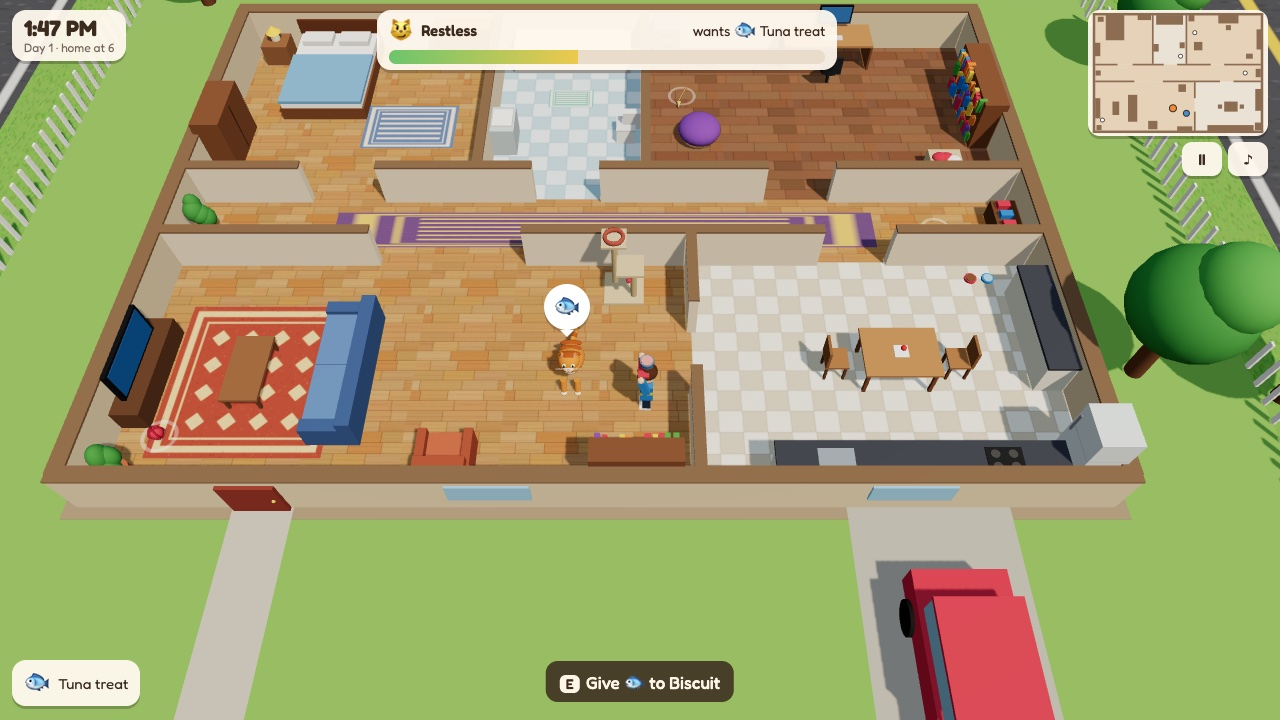
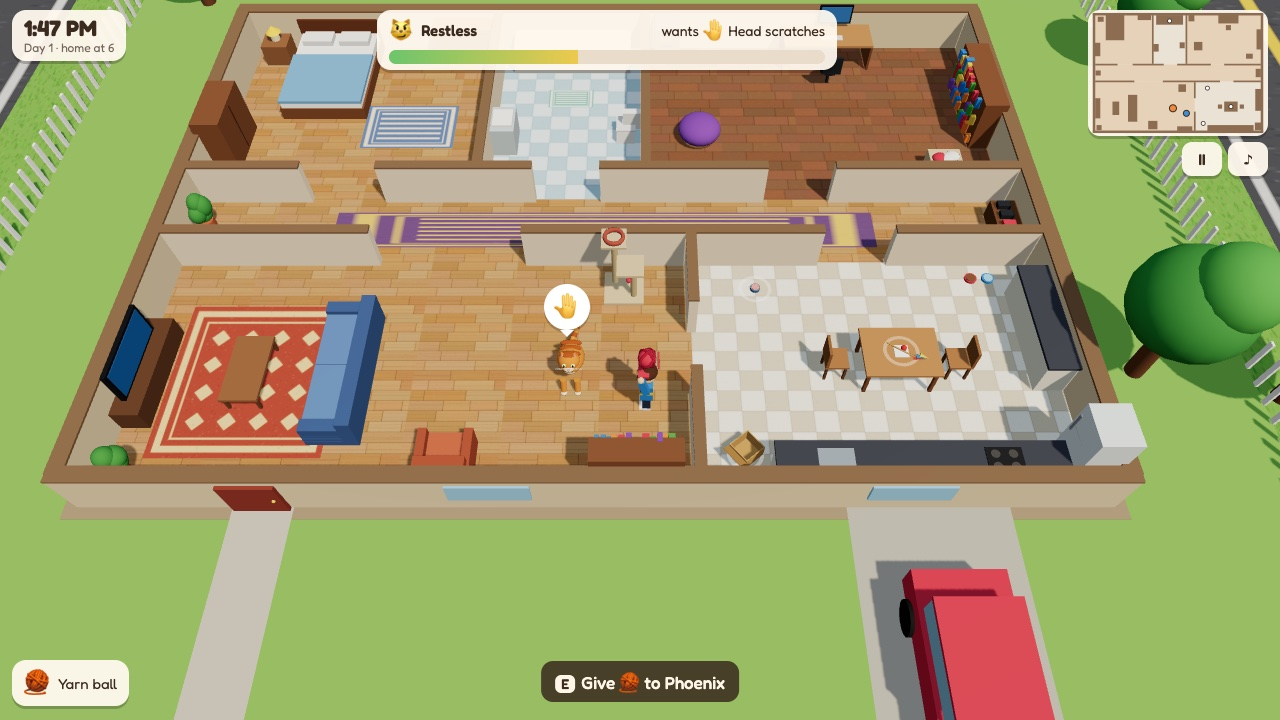
Rename Purr Patrol's cat from Biscuit to Phoenix
Updates every in-game mention (HUD, toasts, prompts, title and the
"PHOENIX GOT BORED" banner), the README description, and the screenshots,
which showed the old name in on-screen text.

diff --git a/purr-patrol/index.html b/purr-patrol/index.html
@@ -111,18 +111,18 @@ body.touch #prompt kbd{display:none}
   <div class="chip" id="carry"><span id="carryE">✋</span><span id="carryN">Empty hands</span></div>
   <div id="prompt" hidden></div>
 </div>
-<div id="kbanner" hidden><b>BISCUIT GOT BORED</b><span id="kdmg">$0 in damages</span></div>
+<div id="kbanner" hidden><b>PHOENIX GOT BORED</b><span id="kdmg">$0 in damages</span></div>
 <div id="touch" hidden><div id="stick"><i></i></div><button id="bRun" type="button">RUN</button><button id="bAct" type="button">GRAB</button></div>
 
 <div class="screen" id="title">
   <div class="card">
     <div class="eyebrow">AN AFTERNOON IN WHISKERTON</div>
     <h1>Purr<br>Patrol</h1>
-    <p>You're cat-sitting <b>Biscuit</b> until the owners get home at 6. Run around the house, find what Biscuit wants and bring it over. Whatever you do, <b>don't let Biscuit get bored.</b></p>
+    <p>You're cat-sitting <b>Phoenix</b> until the owners get home at 6. Run around the house, find what Phoenix wants and bring it over. Whatever you do, <b>don't let Phoenix get bored.</b></p>
     <div class="keys" id="keysDesk">
       <kbd>WASD / Arrows</kbd><span>Run around the house</span>
       <kbd>Shift</kbd><span>Sprint</span>
-      <kbd>E / Space</kbd><span>Grab a toy, give it, or pet Biscuit</span>
+      <kbd>E / Space</kbd><span>Grab a toy, give it, or pet Phoenix</span>
       <kbd>P · M</kbd><span>Pause · Mute</span>
     </div>
     <p class="small" id="keysTouch" hidden>Stick to run, the orange button to grab, give and pet.</p>
@@ -134,16 +134,16 @@ body.touch #prompt kbd{display:none}
   <div class="card">
     <div class="eyebrow" id="deEye">6:00 PM · DAY 1</div>
     <h2>The owners are home!</h2>
-    <p>Biscuit is purring on the windowsill and Whiskerton is still standing.</p>
+    <p>Phoenix is purring on the windowsill and Whiskerton is still standing.</p>
     <div class="stats"><span>Toys delivered</span><b id="deToys">0</b><span>Exact wishes granted</span><b id="deWish">0</b><span>Closest call</span><b id="deClose">0%</b></div>
-    <p class="small">Tomorrow Biscuit gets bored faster.</p>
+    <p class="small">Tomorrow Phoenix gets bored faster.</p>
     <button class="btn" id="nextBtn" type="button">Next day</button>
   </div>
 </div>
 <div class="screen" id="over" hidden>
   <div class="card">
     <div class="eyebrow" id="ovEye">3:12 PM · DAY 1</div>
-    <h2>Biscuit got bored.</h2>
+    <h2>Phoenix got bored.</h2>
     <p id="ovText">Whiskerton is in ruins.</p>
     <div class="stats"><span>Damage to Whiskerton</span><b id="ovDmg">$0</b><span>Buildings flattened</span><b id="ovBld">0</b><span>Toys delivered</span><b id="ovToys">0</b></div>
     <button class="btn" id="retryBtn" type="button">Try the day again</button>
@@ -151,7 +151,7 @@ body.touch #prompt kbd{display:none}
   </div>
 </div>
 <div class="screen" id="pause" hidden>
-  <div class="card"><h2>Paused</h2><p>Biscuit is watching you. Waiting.</p><button class="btn" id="resumeBtn" type="button">Resume</button></div>
+  <div class="card"><h2>Paused</h2><p>Phoenix is watching you. Waiting.</p><button class="btn" id="resumeBtn" type="button">Resume</button></div>
 </div>
 
 <script type="importmap">{"imports":{"three":"https://cdn.jsdelivr.net/npm/three@0.170.0/build/three.module.js"}}</script>
@@ -402,7 +402,7 @@ function sfx(name, v = 1) {
     case 'step': noise(t, .05, filt('bandpass', 900, 2, envG(M, t, .002, .04 * v, .05))); break;
   }
 }
-// little looping tune; goes minor and quicker as Biscuit gets bored
+// little looping tune; goes minor and quicker as Phoenix gets bored
 const MUS = { on: false, next: 0, step: 0, tense: 0 };
 function startMusic() {
   if (MUS.timer) return;
@@ -565,7 +565,7 @@ function buildHouse() {
   rug(0, 0, 13, 1.1, 'runner');
   boxB(H, .6, .5, 1.0, 0x7a5235, 9.55, 0, 0); for (let i = 0; i < 3; i++) boxB(H, .3, .12, .18, pick([0x30343c, 0xd9485a, 0x3d8fe0]), 9.5, .5, -.3 + i * .3); solid(9.55, 0, .6, 1.0);
   plant(-9.5, 0); solid(-9.5, 0, .6, .6);
-  // floors count as house too but stay put when Biscuit pops
+  // floors count as house too but stay put when Phoenix pops
 }
 
 /* ================= TOWN ================= */
@@ -785,10 +785,10 @@ function moveInput() {
 const nearCat = () => Math.hypot(cat.x - player.x, cat.z - player.z) < 1.8 && cat.state !== 'zoom';
 function nearestItem() { let best = null, bd = 1.35; for (const it of items) { const d = Math.hypot(it.x - player.x, it.z - player.z); if (d < bd) { bd = d; best = it; } } return best; }
 function context() {
-  if (nearCat() && player.carry) return { act: 'give', label: `Give ${TOYS[player.carry].e} to Biscuit`, btn: 'GIVE' };
+  if (nearCat() && player.carry) return { act: 'give', label: `Give ${TOYS[player.carry].e} to Phoenix`, btn: 'GIVE' };
   const it = nearestItem();
   if (it) return { act: 'grab', it, label: player.carry ? `Swap for ${TOYS[it.type].e} ${TOYS[it.type].name}` : `Grab ${TOYS[it.type].e} ${TOYS[it.type].name}`, btn: player.carry ? 'SWAP' : 'GRAB' };
-  if (nearCat() && (cat.state !== 'play' || cat.want === 'pet')) return { act: 'pet', label: cat.want === 'pet' ? 'Give Biscuit head scratches' : 'Pet Biscuit', btn: 'PET' };
+  if (nearCat() && (cat.state !== 'play' || cat.want === 'pet')) return { act: 'pet', label: cat.want === 'pet' ? 'Give Phoenix head scratches' : 'Pet Phoenix', btn: 'PET' };
   return null;
 }
 function interact() {
@@ -803,16 +803,16 @@ function interact() {
 function give() {
   const t = player.carry; setCarry(null); run.toys++;
   let amt;
-  if (t === cat.want) { amt = Math.max(24, 36 - 3 * (run.day - 1)); run.wishes++; toast('Purrfect! Exactly what Biscuit wanted.', 'good'); floatAt(cat.x, .9, cat.z, '😻'); sfx('give'); setTimeout(() => sfx('purr'), 250); }
-  else if (t === cat.lastToy) { amt = 5; toast('Biscuit already played with that.', 'bad'); floatAt(cat.x, .9, cat.z, '😒'); sfx('meh'); }
-  else { amt = 15; toast(`Not ${TOYS[cat.want].e}, but Biscuit will take it.`); floatAt(cat.x, .9, cat.z, '😼'); sfx('grab'); }
+  if (t === cat.want) { amt = Math.max(24, 36 - 3 * (run.day - 1)); run.wishes++; toast('Purrfect! Exactly what Phoenix wanted.', 'good'); floatAt(cat.x, .9, cat.z, '😻'); sfx('give'); setTimeout(() => sfx('purr'), 250); }
+  else if (t === cat.lastToy) { amt = 5; toast('Phoenix already played with that.', 'bad'); floatAt(cat.x, .9, cat.z, '😒'); sfx('meh'); }
+  else { amt = 15; toast(`Not ${TOYS[cat.want].e}, but Phoenix will take it.`); floatAt(cat.x, .9, cat.z, '😼'); sfx('grab'); }
   cat.boredom = Math.max(0, cat.boredom - amt); cat.lastToy = t;
   startPlay(t);
   if (t === cat.want) cat.wantAfterPlay = true; else if (cat.wantT > 14) cat.wantAfterPlay = true;
 }
 function pet() {
-  if (cat.want === 'pet') { cat.boredom = Math.max(0, cat.boredom - 32); run.wishes++; run.toys++; toast('Head scratches! Biscuit melts.', 'good'); for (let i = 0; i < 3; i++) setTimeout(() => floatAt(cat.x + rand(-.3, .3), .9, cat.z, '💕'), i * 180); sfx('purr'); startPlay('pet'); cat.wantAfterPlay = true; cat.petCD = 6; return; }
-  if (cat.petCD > 0) { cat.boredom = Math.min(100, cat.boredom + 5); toast('Biscuit swats your hand away!', 'bad'); floatAt(cat.x, .9, cat.z, '💢'); sfx('hiss'); cat.petCD = 4; cat.swat = .4; return; }
+  if (cat.want === 'pet') { cat.boredom = Math.max(0, cat.boredom - 32); run.wishes++; run.toys++; toast('Head scratches! Phoenix melts.', 'good'); for (let i = 0; i < 3; i++) setTimeout(() => floatAt(cat.x + rand(-.3, .3), .9, cat.z, '💕'), i * 180); sfx('purr'); startPlay('pet'); cat.wantAfterPlay = true; cat.petCD = 6; return; }
+  if (cat.petCD > 0) { cat.boredom = Math.min(100, cat.boredom + 5); toast('Phoenix swats your hand away!', 'bad'); floatAt(cat.x, .9, cat.z, '💢'); sfx('hiss'); cat.petCD = 4; cat.swat = .4; return; }
   cat.boredom = Math.max(0, cat.boredom - 6); floatAt(cat.x, .9, cat.z, '💕'); sfx('purr', .7); cat.petCD = 6;
 }
 
@@ -844,13 +844,13 @@ function updateCat(dt, live) {
       const rate = (1.2 + 1.0 * frac) * dayMul * (cat.state === 'zoom' ? .5 : 1);
       cat.boredom = Math.min(100, cat.boredom + rate * dt);
       cat.wantT += dt;
-      if (cat.wantT > 32) { newWant(); toast('Biscuit changed its mind.'); sfx('meowSad'); }
+      if (cat.wantT > 32) { newWant(); toast('Phoenix changed its mind.'); sfx('meowSad'); }
     }
     run.peak = Math.max(run.peak, cat.boredom);
     cat.meowT -= dt;
     if (cat.meowT <= 0) { cat.meowT = cat.boredom > 75 ? rand(3, 5) : rand(9, 16); sfx(cat.boredom > 75 ? 'meowMad' : cat.boredom > 45 ? 'meowSad' : 'meow', .8); }
-    if (cat.boredom >= 75 && run.warned < 1) { run.warned = 1; toast('Biscuit is getting dangerously bored!', 'bad'); sfx('warn'); }
-    if (cat.boredom >= 90 && run.warned < 2) { run.warned = 2; toast('Something is happening to Biscuit…', 'bad'); sfx('growl'); }
+    if (cat.boredom >= 75 && run.warned < 1) { run.warned = 1; toast('Phoenix is getting dangerously bored!', 'bad'); sfx('warn'); }
+    if (cat.boredom >= 90 && run.warned < 2) { run.warned = 2; toast('Something is happening to Phoenix…', 'bad'); sfx('growl'); }
     if (cat.boredom < 60) run.warned = 0;
     if (cat.boredom >= 100) { startKaiju(); return; }
   }
@@ -860,7 +860,7 @@ function updateCat(dt, live) {
       cat.t = 0; cat.idleDur = rand(6, 14);
       if (live && cat.boredom > 35 && cat.boredom < 80 && Math.random() < .3) {
         const seq = NODES.map((n, i) => i).filter(i => NODES[i].rest && i !== cat.node);
-        if (catGoTo(pick(seq), true)) { if (live) toast('Biscuit has the zoomies!'); return; }
+        if (catGoTo(pick(seq), true)) { if (live) toast('Phoenix has the zoomies!'); return; }
       }
       const rests = NODES.map((n, i) => i).filter(i => NODES[i].rest && i !== cat.node);
       catGoTo(pick(rests));
@@ -1049,7 +1049,7 @@ function startGame() {
   audioInit(); $('title').hidden = true; $('over').hidden = true; $('dayend').hidden = true;
   if (K.on || K.flyers) { K.flyers = null; resetWorld(); } else resetDay();
   state = 'play'; MUS.on = true; $('hud').hidden = false; $('touch').hidden = !isTouch; $('kbanner').hidden = true;
-  toast(`Day ${run.day}. Biscuit wants ${TOYS[cat.want].e} ${TOYS[cat.want].name}!`);
+  toast(`Day ${run.day}. Phoenix wants ${TOYS[cat.want].e} ${TOYS[cat.want].name}!`);
   sfx('meow');
 }
 function dayComplete() {
@@ -1110,14 +1110,14 @@ function updateHUD(dt) {
   const c = state === 'play' ? context() : null, pr = $('prompt');
   if (c) { const html = (isTouch ? '' : '<kbd>E</kbd>') + c.label; if (hudCache.prompt !== html) { hudCache.prompt = html; pr.innerHTML = html; } pr.hidden = false; } else pr.hidden = true;
   const btn = c ? c.btn : 'GRAB'; if (hudCache.btn !== btn) { hudCache.btn = btn; $('bAct').textContent = btn; $('bAct').style.opacity = c ? 1 : .55; }
-  // want bubble over Biscuit
+  // want bubble over Phoenix
   const [sx, sy, vis] = toScreen(cat.x, .9 * cat.scale * CAT_VIS + .1, cat.z), bub = $('bubble');
   const playing = cat.state === 'play';
   setText('bubE', playing ? (cat.play.type === 'pet' ? '😽' : '😸') : TOYS[cat.want].e);
   bub.classList.toggle('mad', b > 75 && !playing);
   const on = vis && sx > -40 && sx < innerWidth + 40 && sy > -40 && sy < innerHeight + 40;
   bub.style.display = on ? '' : 'none'; bub.style.transform = `translate(${(sx - 23) | 0}px,${(sy - 58) | 0}px)`;
-  // edge arrow when Biscuit is off screen
+  // edge arrow when Phoenix is off screen
   const ar = $('arrow'), m = 46;
   if (!on || sx < m || sx > innerWidth - m || sy < 120 || sy > innerHeight - m) {
     const cx = innerWidth / 2, cy = innerHeight / 2; let dx = sx - cx, dy = sy - cy; if (!vis) { dx = -dx; dy = -dy; }

diff --git a/README.md b/README.md
@@ -18,7 +18,7 @@ Browser games, mostly remakes of classics, one per subdirectory. Each one is pub
 | **Polygon Wing**<br>`polygon-wing/` | A rail shooter in the style of *Star Fox*. Lead the Lancer squadron down a canyon, barrel-roll to deflect shots, use boost, brake and nova bombs, and take down the Warden carrier. | <i>"a 3d reimplementation of the snes game starfox"</i> | [claude.ai](https://claude.ai/artifact/Ln6RLYrcfee1RzavWucQV2) | <img src="screenshots/polygon-wing-1.jpg" width="200"> <img src="screenshots/polygon-wing-2.jpg" width="200"> <img src="screenshots/polygon-wing-3.jpg" width="200"> |
 | **Porchlight**<br>`porchlight/` | A first-person night run through foggy pines. Your truck died on the logging road and your cabin is somewhere out in the fog, so follow the dog barking, a compass that spins near anything strange, and at last the porch light. Grey aliens spot your flashlight from far off and telegraph their laser shots with a red sight line, so sidestep or put a tree between you. Flares blind them, tractor beams lift you until you mash free, and crop circles call the ships down. Floating cows, humming black monoliths and fairy rings of glowing mushrooms are part of the scenery. Three nights, each longer and more crowded. | <i>"you are running through a foggy woods at night looking for your cabin avoiding ufos, aliens, abduction and other weird items, watch out for alien laser beams"</i> | [claude.ai](https://claude.ai/artifact/EGfPmkWK4hrAYGRtFYhbRB) | <img src="screenshots/porchlight-1.jpg" width="200"> <img src="screenshots/porchlight-2.jpg" width="200"> <img src="screenshots/porchlight-3.jpg" width="200"> |
 | **Powder Chute**<br>`powder-chute/` | An isometric 3D snowboarding game in the spirit of *SkiFree*, with the HUD and menus dressed as early-90s desktop windows. Carve an endless groomed mountain, ollie rollers and kickers, spin and flip and grab, grind rails on a balance meter, thread slalom gates for a rising payout, and grab cocoa for a shove of speed — then at 2000 metres the Abominable turns up behind you, and outrunning it is the only way out. Three runs from bunny slope to double black. | <i>"an isometric 3d game similar to skifree but snowboarding"</i> | [claude.ai](https://claude.ai/artifact/2UCaVVEuwVExDthzp23YC8) | <img src="screenshots/powder-chute-1.jpg" width="200"> <img src="screenshots/powder-chute-2.jpg" width="200"> <img src="screenshots/powder-chute-3.jpg" width="200"> |
-| **Purr Patrol**<br>`purr-patrol/` | A 3D cat-sitting panic in a cutaway house. You have until the owners get home at 6 to keep Biscuit entertained: a thought bubble shows what Biscuit wants, and you run room to room to find it, whether that is a yarn ball, toy mouse, feather wand, laser pointer, cardboard box, catnip, tuna or a jingle ball, or just head scratches. Every toy plays out its own little game, repeats bore Biscuit faster, and the zoomies send the cat tearing around the house. Each day Biscuit gets bored quicker. If the boredom meter fills, Biscuit grows to kaiju size, blows the house apart and stomps through the town of Whiskerton while the damage bill climbs. | <i>"running around a house to find items to keep a cat happy and entertained. if the cat gets bored it turns into a giant cat monster and destroys the town"</i> | [claude.ai](https://claude.ai/artifact/HF24kPTndBU9B9BCrbJ9uB) | <img src="screenshots/purr-patrol-1.jpg" width="200"> <img src="screenshots/purr-patrol-2.jpg" width="200"> <img src="screenshots/purr-patrol-3.jpg" width="200"> |
+| **Purr Patrol**<br>`purr-patrol/` | A 3D cat-sitting panic in a cutaway house. You have until the owners get home at 6 to keep Phoenix entertained: a thought bubble shows what Phoenix wants, and you run room to room to find it, whether that is a yarn ball, toy mouse, feather wand, laser pointer, cardboard box, catnip, tuna or a jingle ball, or just head scratches. Every toy plays out its own little game, repeats bore Phoenix faster, and the zoomies send the cat tearing around the house. Each day Phoenix gets bored quicker. If the boredom meter fills, Phoenix grows to kaiju size, blows the house apart and stomps through the town of Whiskerton while the damage bill climbs. | <i>"running around a house to find items to keep a cat happy and entertained. if the cat gets bored it turns into a giant cat monster and destroys the town"</i> | [claude.ai](https://claude.ai/artifact/HF24kPTndBU9B9BCrbJ9uB) | <img src="screenshots/purr-patrol-1.jpg" width="200"> <img src="screenshots/purr-patrol-2.jpg" width="200"> <img src="screenshots/purr-patrol-3.jpg" width="200"> |
 | **Radio Rally 3D**<br>`radio-rally-3d/` | A three.js remake of *R.C. Pro-Am*. Race RC trucks across 6 themed tracks, fire missiles and drop bombs, collect upgrades, and finish in the top 3 to advance. | <i>"reimplement the nes class rc pro-am, give the game a more 3d feel"</i> | [claude.ai](https://claude.ai/artifact/BrYaqAMRhTCiadaWU75ytZ) | <img src="screenshots/radio-rally-3d-1.jpg" width="200"> <img src="screenshots/radio-rally-3d-2.jpg" width="200"> <img src="screenshots/radio-rally-3d-3.jpg" width="200"> |
 | **Rotgate**<br>`rotgate/` | A coin-op dungeon crawl in the mould of *Gauntlet*, with zombies. Pick one of four survivors, then fight down ten floors of plague catacombs while your wound bleeds health away every second. Smash the graves that spit out the dead, hunt medkits to buy back time, burn a room with a flare, open bricked-up vaults with keys, shoot through cracked brick for shortcuts, outrun a Hollow that bullets pass straight through, and finish the Gravemother at the bottom. | <i>"a game that is similar to guantlet but zombies"</i> | [claude.ai](https://claude.ai/artifact/3QuiyzQm6b8M1khjcg4rPK) | <img src="screenshots/rotgate-1.jpg" width="200"> <img src="screenshots/rotgate-2.jpg" width="200"> <img src="screenshots/rotgate-3.jpg" width="200"> |
 | **Shred City '87**<br>`shred-city/` | A radical 80s 3D skateboarding game in the spirit of *T&C Surf Designs* and *Skate or Die*. Bomb down a day-glo SoCal main street, ollie cones and trash cans, kickflip, shove-it, grab and spin, grind rails, ledges and curbs with a balance meter, launch kickers over parked cars, and collect letters to spell RADICAL. | <i>"a skateboarding game like the nes games t&c surf design and skate or die. give it an 80s radical asthetic"</i> | [claude.ai](https://claude.ai/artifact/QMQuM3CudPBwYf9Dz2NRCu) | <img src="screenshots/shred-city-1.jpg" width="200"> <img src="screenshots/shred-city-2.jpg" width="200"> <img src="screenshots/shred-city-3.jpg" width="200"> |
